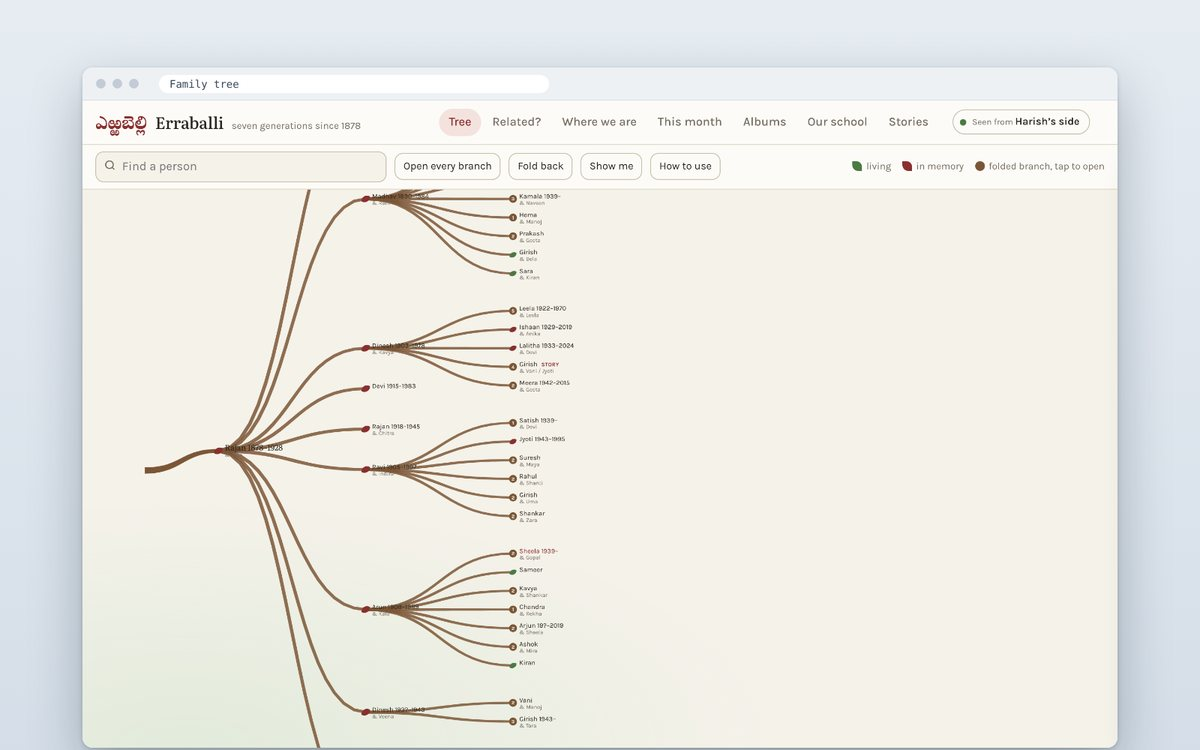
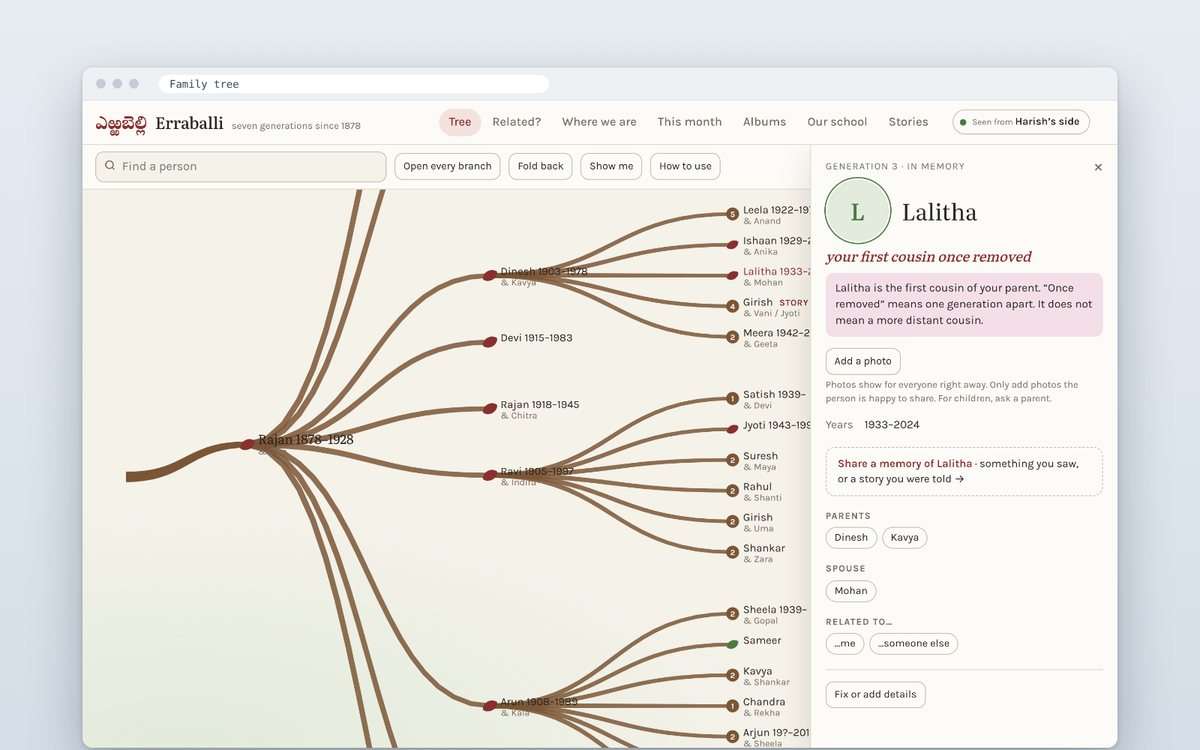
Studios: family tree screenshot zoomed in, with a person card open
Claude-Session: https://claude.ai/code/session_017fsUox7MP5BJExahZW7HG1

diff --git a/studios/index.html b/studios/index.html
@@ -120,7 +120,7 @@ footer a{color:var(--mist)}
       <div class="cards">
         <div class="card"><img class="shot" src="img/work-irdf.jpg" width="1200" height="750" loading="lazy" alt="The home page of the new India Rural Development Fund donor website"><p class="label">Nonprofit</p><p>A new donor website for the India Rural Development Fund, which supports five schools in rural Telangana: monthly giving, employer matching and a year-end teacher campaign. Launching soon.</p></div>
         <div class="card"><img class="shot" src="img/work-timesheet.jpg" width="1200" height="750" loading="lazy" alt="The timesheet app on a phone: the hours screen and the submitted PDF timesheet, with sample data"><p class="label">Internal tools</p><p>A timesheet app for a small consulting firm. Staff sign in with an emailed code, log hours from their phone and submit. The app applies the firm's holiday and pay-period rules, makes the PDF timesheet and sends a morning reminder.</p></div>
-        <div class="card"><img class="shot" src="img/work-family-tree.jpg" width="1200" height="750" loading="lazy" alt="A family tree website that shows seven generations as branches, with sample names"><p class="label">Family</p><p>A private family tree site for 350 relatives across seven generations. Each person picks their name and sees how everyone is related to them, then adds their own details and stories. It is behind a password, so the picture shows sample names.</p></div>
+        <div class="card"><img class="shot" src="img/work-family-tree.jpg" width="1200" height="750" loading="lazy" alt="A family tree website: branches of relatives on the left and one person's card on the right, with sample names"><p class="label">Family</p><p>A private family tree site for 350 relatives across seven generations. Each person picks their name and sees how everyone is related to them, then adds their own details and stories. It is behind a password, so the picture shows sample names.</p></div>
         <div class="card"><img class="shot" src="img/work-publishing.jpg" width="1200" height="750" loading="lazy" alt="An essay page on Marked to Market and the erraballi.ai home page"><p class="label">Publishing</p><p><a href="https://vikase.github.io/marked-to-market/">Marked to Market</a>, my essay site, and <a href="/">erraballi.ai</a>.</p></div>
       </div>
     </section>
